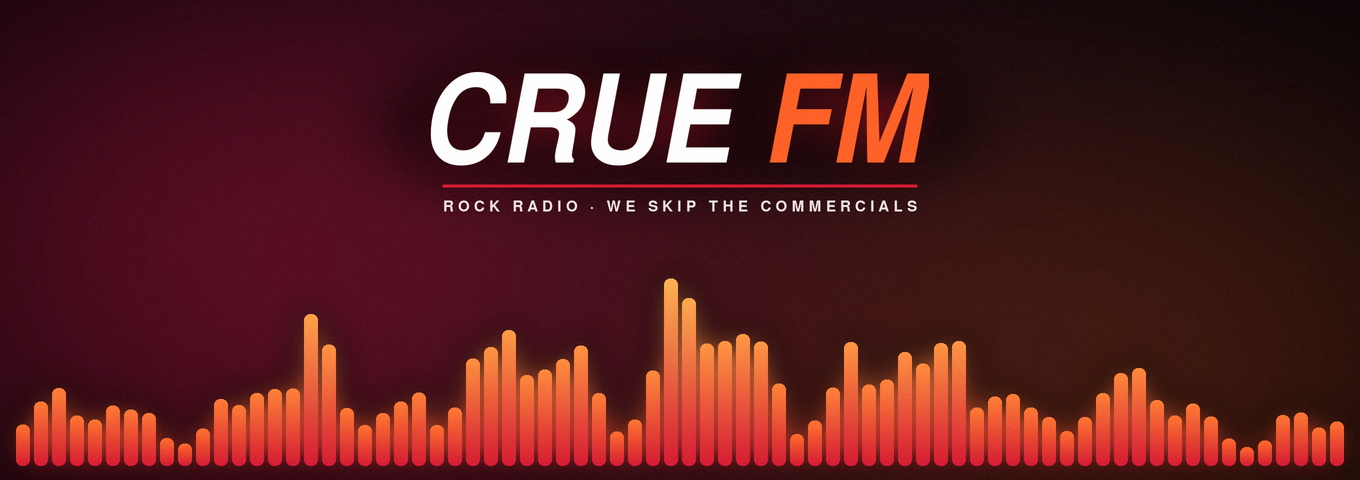
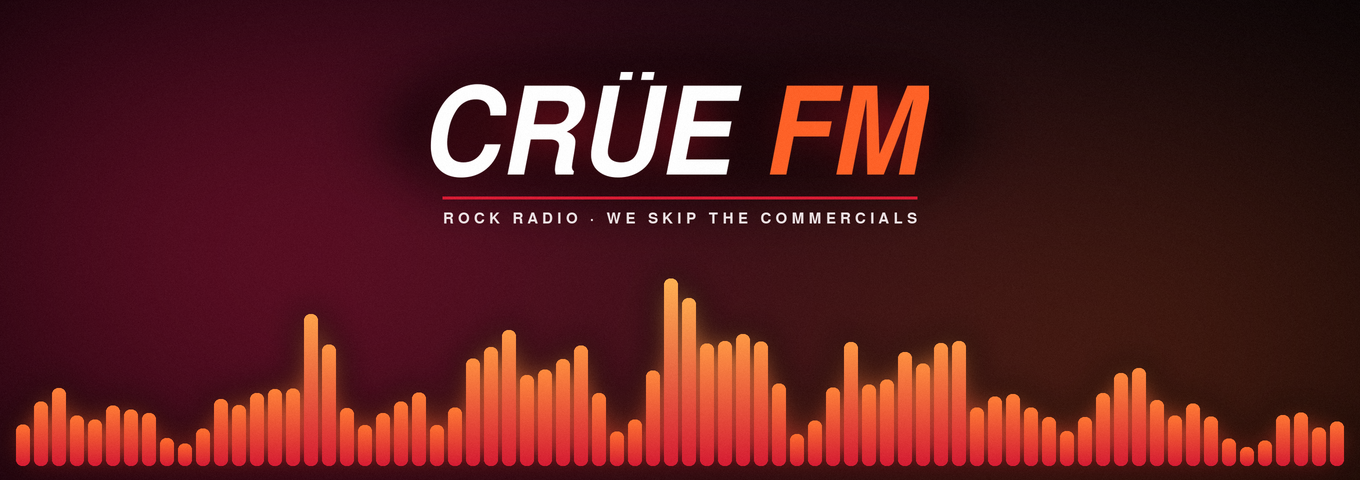
Spell the name Crüe everywhere, including the bot's own username
Logo wordmark (icon and banner), the bot's status, join prompts, help text
and the Now Playing card footer now say Crüe. The bot renames itself to
"Crüe FM" on startup only if its name differs (name changes are rate
limited). The card finder accepts both footers so the existing card is
reused after the rename instead of a duplicate being posted.

Claude-Session: https://claude.ai/code/session_01WwdacQzCaQDeWyzQw4K4FF

Changed region(s): [[0.3088, 0.125, 0.6794, 0.4688]]

diff --git a/bot.py b/bot.py
@@ -70,6 +70,7 @@ FFMPEG_RADIO_OPTIONS = {
 
 
 BRANDING = os.getenv("BRANDING", "1") != "0"   # set the bot's icon and banner from assets/
+BOT_NAME = "Crüe FM"
 ASSET_DIR = os.path.join(os.path.dirname(os.path.abspath(__file__)), "assets")
 NOW_PLAYING = os.getenv("NOW_PLAYING", "1") != "0"
 # Where the live Now Playing card lives: a text channel ID, or (default) the radio channel's own chat.
@@ -100,7 +101,7 @@ class JoinPrompt(discord.ui.View):
     async def approve(self, interaction: discord.Interaction, button: discord.ui.Button):
         await interaction.response.edit_message(
             content="✅ Radio is back on for everyone. You can change it just for you any time: "
-                    "right-click **Crue FM** in the voice channel → **User Volume** or **Mute**.",
+                    "right-click **Crüe FM** in the voice channel → **User Volume** or **Mute**.",
             embed=None, view=None,
         )
         self.stop()
@@ -110,7 +111,7 @@ class JoinPrompt(discord.ui.View):
     async def dismiss(self, interaction: discord.Interaction, button: discord.ui.Button):
         await interaction.response.edit_message(
             content="Okay — the radio is back on for everyone else. Discord doesn't let a bot mute "
-                    "itself for just one person, so to keep it off for you: right-click **Crue FM** "
+                    "itself for just one person, so to keep it off for you: right-click **Crüe FM** "
                     "in the voice channel → **Mute** (takes 2 seconds).",
             embed=None, view=None,
         )
@@ -202,7 +203,7 @@ class MusicBot(commands.Bot):
         await self.change_presence(
             activity=discord.Activity(
                 type=discord.ActivityType.listening,
-                name="Crue FM 📻" if RADIO_URL else "/play to add music",
+                name="Crüe FM 📻" if RADIO_URL else "/play to add music",
             )
         )
         if RADIO_URL and RADIO_CHANNEL_ID:
@@ -238,18 +239,18 @@ class MusicBot(commands.Bot):
                 "🔇 I've muted the radio for a moment so it doesn't blast you. Talking isn't "
                 "affected.\n"
                 f"**Approve** → radio back on for everyone. **Dismiss** → back on for everyone "
-                f"else (then right-click **Crue FM** → **Mute** to keep it off just for you). "
+                f"else (then right-click **Crüe FM** → **Mute** to keep it off just for you). "
                 f"It also comes back on by itself in {MUTE_TIMEOUT_S} seconds."
             )
         else:
             body = (
                 f"**Now playing:** {now}\n\n"
-                "Too loud for you? **Right-click Crue FM** in the voice channel and drag "
+                "Too loud for you? **Right-click Crüe FM** in the voice channel and drag "
                 "**User Volume** down, or choose **Mute**. That only changes what *you* hear — "
                 "nobody else is affected."
             )
         return discord.Embed(
-            title=f"📻 Crue FM is playing in {channel_name}", description=body, color=discord.Color.red()
+            title=f"📻 Crüe FM is playing in {channel_name}", description=body, color=discord.Color.red()
         )
 
     def _effective_volume(self) -> float:
@@ -555,6 +556,12 @@ class MusicBot(commands.Bot):
         except discord.HTTPException as e:
             log.warning("Branding skipped (could not read the bot profile): %s", e)
             return
+        if self.user.name != BOT_NAME:
+            try:
+                await self.user.edit(username=BOT_NAME)
+                log.info("Bot name set to %s", BOT_NAME)
+            except discord.HTTPException as e:
+                log.warning("Could not rename the bot to %s: %s", BOT_NAME, e)
         jobs = (
             ("avatar", "icon.png", user.avatar, 512, (48, 48)),
             ("banner", "banner.png", user.banner, 1024, (68, 24)),
@@ -627,7 +634,7 @@ class MusicBot(commands.Bot):
     async def _find_card(self, channel) -> discord.Message | None:
         """After a restart, reuse the card we already posted instead of adding a new one."""
         async for m in channel.history(limit=30):
-            if m.author.id == self.user.id and m.embeds and (m.embeds[0].footer.text or "").startswith("Crue FM"):
+            if m.author.id == self.user.id and m.embeds and (m.embeds[0].footer.text or "").startswith(("Crüe FM", "Crue FM")):
                 return m
         return None
 
@@ -667,7 +674,7 @@ class MusicBot(commands.Bot):
             timestamp=discord.utils.utcnow(),
         )
         embed.set_image(url="attachment://nowplaying.gif")
-        embed.set_footer(text="Crue FM · live")
+        embed.set_footer(text="Crüe FM · live")
 
         def new_file():
             return discord.File(io.BytesIO(gif), filename="nowplaying.gif")

diff --git a/cogs/music.py b/cogs/music.py
@@ -454,8 +454,8 @@ class Music(commands.Cog):
     @app_commands.command(name="help", description="Show all music bot commands")
     async def help(self, interaction: discord.Interaction):
         embed = discord.Embed(
-            title="📻 Crue FM — Commands",
-            description="Motley Crue Inc's 24/7 radio bot. Play music from YouTube, SoundCloud, direct URLs and more.",
+            title="📻 Crüe FM — Commands",
+            description="Motley Crüe Inc's 24/7 radio bot. Play music from YouTube, SoundCloud, direct URLs and more.",
             color=discord.Color.blurple(),
         )
         embed.add_field(
@@ -508,7 +508,7 @@ class Music(commands.Cog):
             ),
             inline=False,
         )
-        embed.set_footer(text="Crue FM 📻 — Motley Crue Inc's station. /play works with YouTube, SoundCloud, or just a song name!")
+        embed.set_footer(text="Crüe FM 📻 — Motley Crüe Inc's station. /play works with YouTube, SoundCloud, or just a song name!")
         await interaction.response.send_message(embed=embed)
 
 

diff --git a/make_branding.py b/make_branding.py
@@ -93,7 +93,7 @@ def make_icon(path: str):
     base.alpha_composite(bars)
 
     # sized to sit inside the red ring so Discord's circular crop never clips the lettering
-    mark = wordmark([("CRUE ", (255, 255, 255, 255)), ("FM", EMBER + (255,))], 158)
+    mark = wordmark([("CRÜE ", (255, 255, 255, 255)), ("FM", EMBER + (255,))], 158)
     shadow = Image.new("RGBA", (S, S), (0, 0, 0, 0))
     mx, my = (S - mark.width) // 2, 700
     sh = Image.new("RGBA", mark.size, (0, 0, 0, 0))
@@ -141,7 +141,7 @@ def make_banner(path: str):
     base.alpha_composite(bars)
 
     # wordmark + tagline, centred
-    mark = wordmark([("CRUE ", (255, 255, 255, 255)), ("FM", EMBER + (255,))], 250 * SS // 2 * 1)
+    mark = wordmark([("CRÜE ", (255, 255, 255, 255)), ("FM", EMBER + (255,))], 250 * SS // 2 * 1)
     mark = mark.resize((int(mark.width * 0.98), int(mark.height * 0.98)), Image.LANCZOS)
     mx, my = (w - mark.width) // 2, int(h * 0.15)
     halo = Image.new("RGBA", (w, h), (0, 0, 0, 0))
